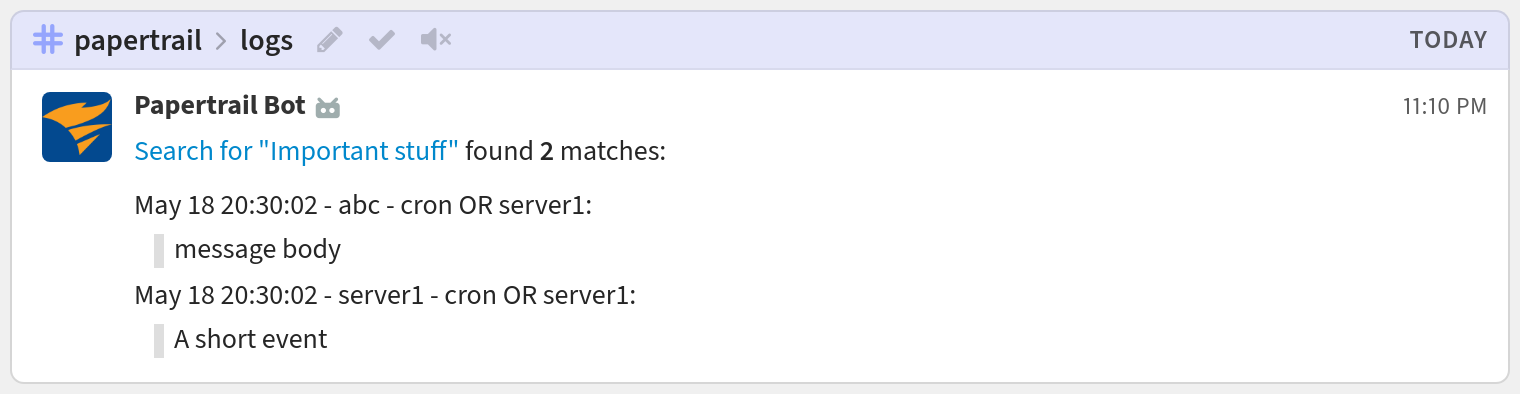
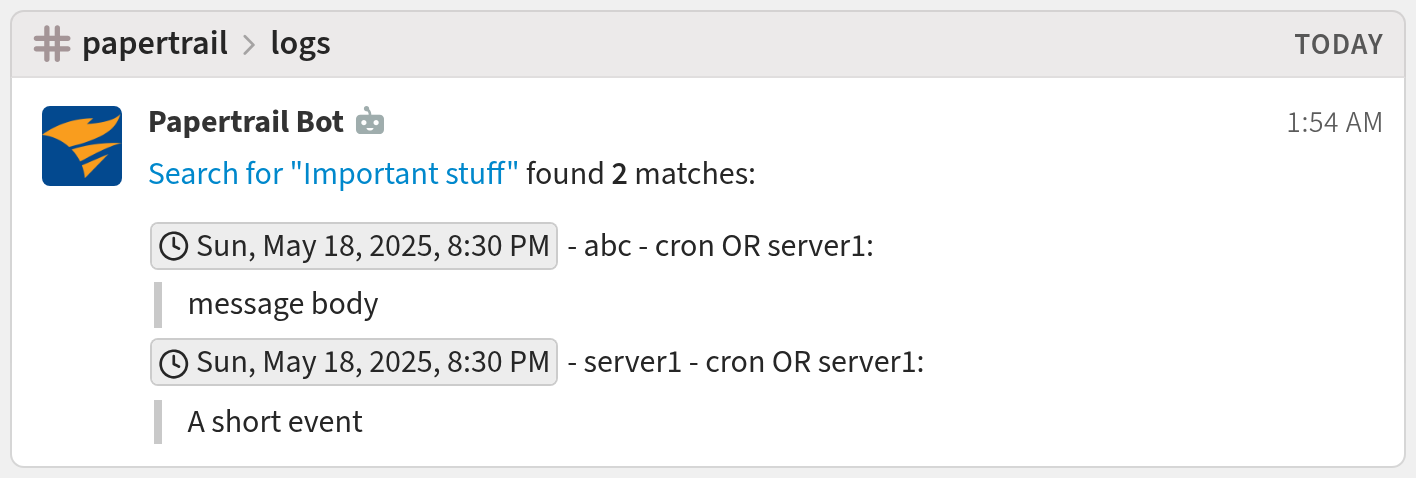
integrations/papertrail: Use global time.

diff --git a/zerver/webhooks/papertrail/tests.py b/zerver/webhooks/papertrail/tests.py
@@ -15,11 +15,11 @@ class PapertrailHookTests(WebhookTestCase):
         expected_message = """
 [Search for "Important stuff"](https://papertrailapp.com/searches/42) found **2** matches:
 
-May 18 20:30:02 - abc - cron OR server1:
+<time:May 18 20:30:02> - abc - cron OR server1:
 ``` quote
 message body
 ```
-May 18 20:30:02 - server1 - cron OR server1:
+<time:May 18 20:30:02> - server1 - cron OR server1:
 ``` quote
 A short event
 ```
@@ -37,19 +37,19 @@ A short event
         expected_message = """
 [Search for "Important stuff"](https://papertrailapp.com/searches/42) found **5** matches:
 
-May 18 20:30:02 - abc - cron OR server1:
+<time:May 18 20:30:02> - abc - cron OR server1:
 ``` quote
 message body 1
 ```
-May 18 20:30:02 - abc - cron OR server1:
+<time:May 18 20:30:02> - abc - cron OR server1:
 ``` quote
 message body 2
 ```
-May 18 20:30:02 - abc - cron OR server1:
+<time:May 18 20:30:02> - abc - cron OR server1:
 ``` quote
 message body 3
 ```
-May 18 20:30:02 - abc - cron OR server1:
+<time:May 18 20:30:02> - abc - cron OR server1:
 ``` quote
 message body 4
 ```

diff --git a/zerver/webhooks/papertrail/view.py b/zerver/webhooks/papertrail/view.py
@@ -12,7 +12,7 @@ from zerver.models import UserProfile
 
 MATCHES_TEMPLATE = '[Search for "{name}"]({url}) found **{number}** matches:\n'
 SEARCH_TEMPLATE = """
-{timestamp} - {source} - {query}:
+<time:{timestamp}> - {source} - {query}:
 ``` quote
 {message}
 ```
